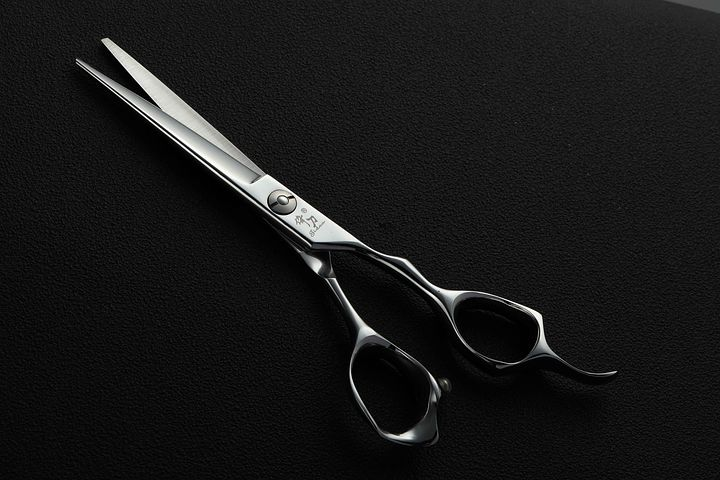
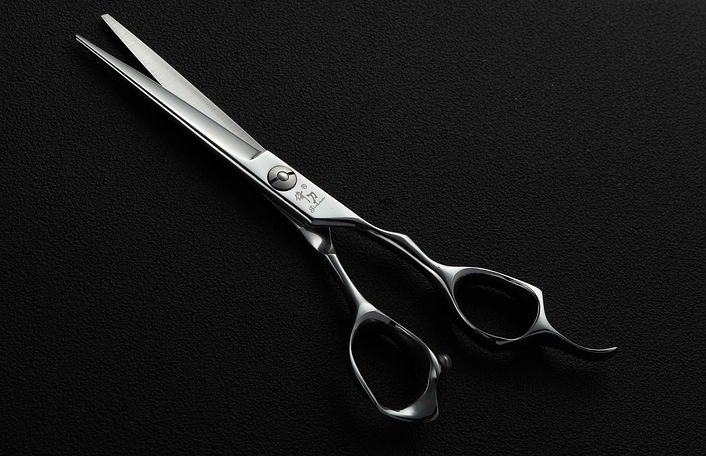
setup gitignore and change img

Changed region(s): [[0.0935, 0.0307, 0.8725, 0.9211], [0.9348, 0.0, 1.0, 0.0307]]

diff --git a/PiWebaffutage/sharpening.html b/PiWebaffutage/sharpening.html
@@ -69,7 +69,7 @@
           <p>Our qualified specialist submits your siceaux to a detailed examination in order to judge its condition and note the defect(s).</p>
         </div>
         <div class="w3-col m6">
-          <img class="w3-image w3-round-large" src="IMG3.jpg" width="700" height="394">
+          <img class="w3-image w3-round-large" src="IMG11.jpg" width="700" height="394">
         </div>
       </div>
       </div>
@@ -78,7 +78,7 @@
     <div class="w3-container w3-black b-section">
       <div class="w3-row-padding">
         <div class="w3-col m6">
-          <img class="w3-image w3-round-large" src="IMG4.jpg" width="700" height="394">
+          <img class="w3-image w3-round-large" src="IMG13.jpg" width="700" height="394">
         </div>
         <div class="w3-col m6">
           <h3>Repair and maintenance</h3>
@@ -87,19 +87,7 @@
       </div>
       </div>
 
-    <!-- description4-->
-    <div class="w3-container w3-light-black b-section">
-    <div class="w3-row-padding">
-      <div class="w3-col m6">
-        <h3>We know design.</h3>
-        <p>Lorem ipsum dolor sit amet, consectetur adipiscing elit, sed do eiusmod<br>tempor incididunt ut labore et dolore.</p>
-      </div>
-      <div class="w3-col m6">
-        <img class="w3-image w3-round-large" src="photo.png" width="700" height="394">
-      </div>
-    </div>
-    </div>
-    
+
     <!-- description1-->
     <div class="w3-container b-section">
       <div class="w3-row-padding">

diff --git a/PiWebaffutage/index.html b/PiWebaffutage/index.html
@@ -186,7 +186,7 @@ img {
       <div class="w3-container w3-black b-section">
       <div class="w3-row-padding">
         <div class="w3-col m6">
-          <img class="w3-image w3-round-large limg" src="IMG3.jpg">
+          <img class="w3-image w3-round-large limg" src="IMG11.jpg">
         </div>
         <div class="w3-col m6 w3-padding-top-64">
           <h3>Repair by our specialists</h3>
@@ -204,7 +204,7 @@ img {
           <p>We proceed with the repair of your siceaux Lorem ipsum, dolor sit amet consectetur adipisicing elit. Obcaecati nesciunt eaque rerum dolore, quae a asperiores, quis, impedit ad accusamus neque voluptatum qui ab atque sapiente laborum dignissimos labore illo.</p>
         </div>
         <div class="w3-col m6">
-          <img class="w3-image w3-round-large limg" src="IMG4.jpg">
+          <img class="w3-image w3-round-large limg" src="IMG13.jpg">
         </div>
       </div>
       </div>
